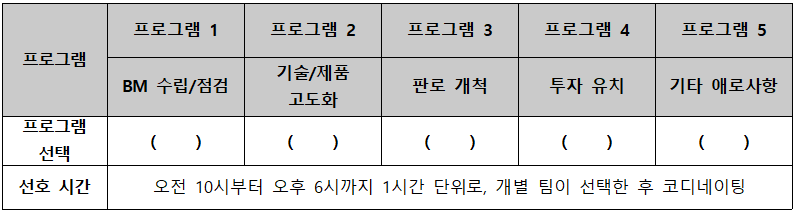
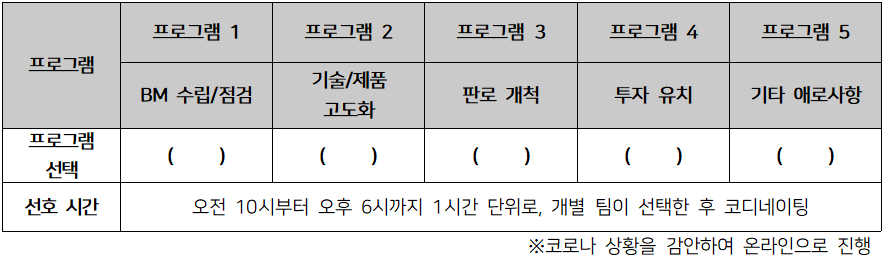
1

diff --git a/meetup.html b/meetup.html
@@ -259,8 +259,9 @@
                 
 
               </p>
-              <div style="text-align: center"><img src="img/meetup00.png" alt="" /><br> ※코로나 상황을 감안하여 온라인으로 진행
-              </div><br>
+
+              <div style="text-align: center"><img src="img/meetup00.png" alt="" />
+              </div>
               <br>
               <br><b style="font-size: 1.3em">□ 지원프로그램 상세</b><br /><br />
               <p>
